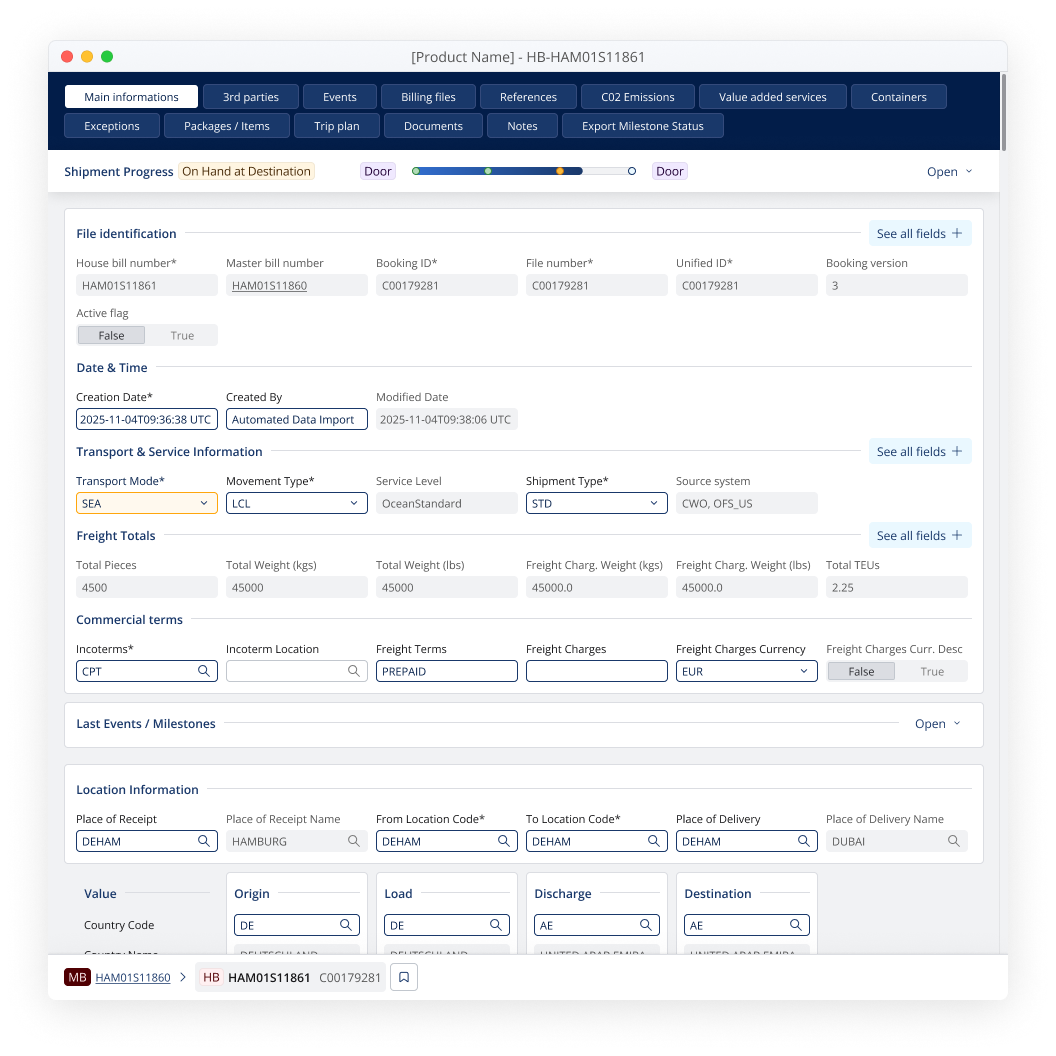
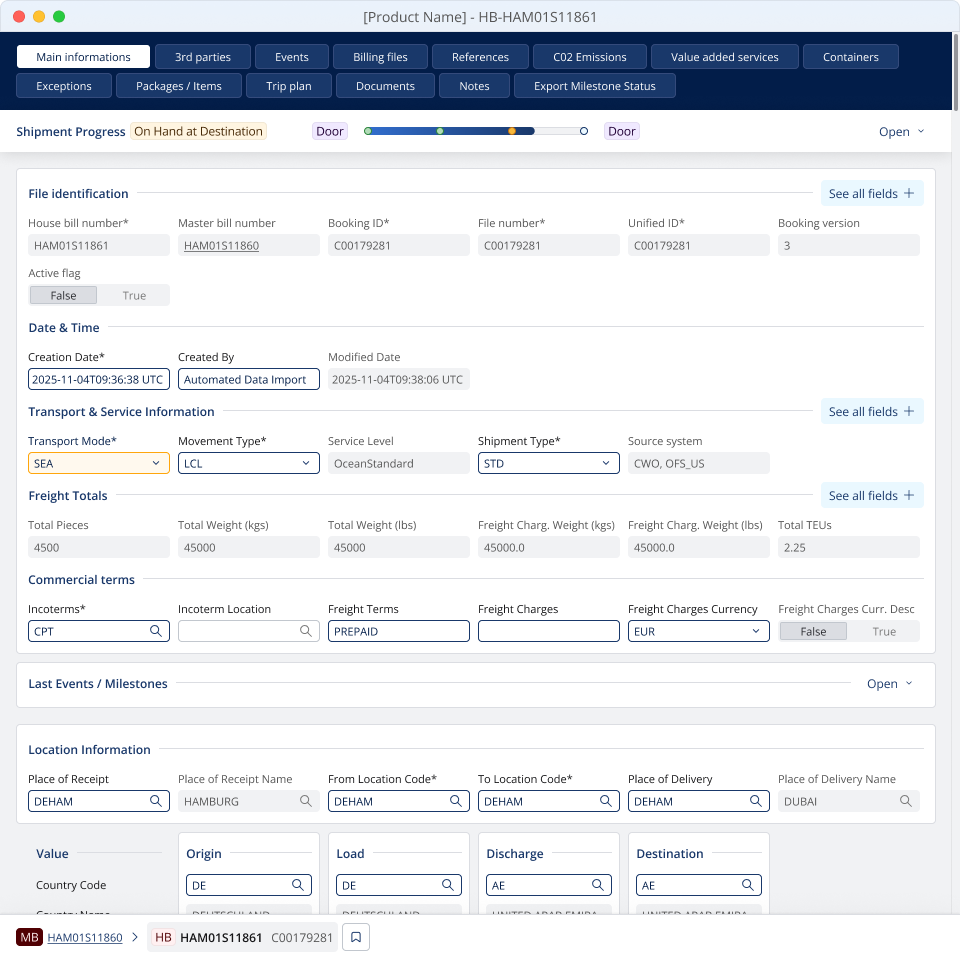
Give CEVA its cover and open a study on the two new projects
The blue project takes /covers/ceva.png and both new cards now open a study,
like the pink one. Nothing else was needed for that: the presence of `study`
is what makes a card clickable and what switches its cursor from hover to
link, so the fourth project stays inert on purpose, having neither a cover nor
a subject yet.

The placeholder study is one shared function rather than two copies of the
same prose. Two identical placeholders read as provisional; two different ones
read as copy. Its sections say what belongs in them instead of filling space,
which is something to write against, and the call is what gets deleted when the
real writing lands.

Checked at 1440px: three cards carry data-cursor="link" and the fourth carries
hover, each study opens on its own mat with its own cover, and no cover is
cropped in the panel — emeis at 1.557 against its natural 1.555, ceva square at
1. The clip past the seam stays 168px whatever the image, so it eats 29% of the
square ceva, 32% of the plugin and 45% of the wide emeis.

diff --git a/src/data/projects.js b/src/data/projects.js
@@ -32,8 +32,43 @@
    not run, which is what the slot is for while a screenshot is still coming. */
 const variableGenerator = '/covers/variable-generator.png'
 
-// Second project. Copy still to come, so the card carries a placeholder sentence.
+// Copy still to come for these two, so their cards carry a placeholder sentence.
 const emeis = '/covers/emeis.png'
+const ceva = '/covers/ceva.png'
+
+/* A study that exists so the card opens and the page can be judged before the
+   writing does. Shared on purpose rather than written twice: two identical
+   placeholders read as provisional, two different ones read as copy.
+
+   The sections say what belongs in them instead of filling space, which is
+   something to write against and impossible to mistake for the real thing.
+   Delete the call, not the text, when the copy arrives. */
+function placeholderStudy(cover) {
+  return {
+    cover,
+    sections: [
+      {
+        title: 'Placeholder. What was in the way before anyone opened Figma.',
+        paragraphs: [
+          'Placeholder copy, sitting here so the shape of the page can be judged before the writing exists. Two or three sentences belong here on the problem as it actually turned up, in the words you would use with a colleague rather than with a jury.',
+        ],
+      },
+      {
+        title: 'Placeholder. The decision you would defend.',
+        paragraphs: [
+          'Placeholder copy. One idea rather than a list of screens: the call that changed the outcome, and what it cost to make it.',
+        ],
+        figure: { cover: null, caption: 'Placeholder figure' },
+      },
+      {
+        title: 'Placeholder. What came out of it.',
+        paragraphs: [
+          'Placeholder copy. What moved, with a number if there is one and without one if there is not.',
+        ],
+      },
+    ],
+  }
+}
 
 export const projects = [
   {
@@ -83,6 +118,7 @@ export const projects = [
   },
   {
     id: 'project-02',
+    study: placeholderStudy(emeis),
     title: 'Placeholder copy. The cover is the real one, the sentence is not yet.',
     subtitle: 'Client name',
     cover: emeis,
@@ -96,9 +132,10 @@ export const projects = [
   },
   {
     id: 'project-03',
-    title: 'Placeholder project. Say what was broken before you touched it.',
+    study: placeholderStudy(ceva),
+    title: 'Placeholder copy. The cover is the real one, the sentence is not yet.',
     subtitle: 'Client name',
-    cover: '',
+    cover: ceva,
     link: null,
     mat: 'blue',
     x: 27,

diff --git a/CLAUDE.md b/CLAUDE.md
@@ -95,9 +95,9 @@ Conventions : composants en PascalCase avec export default, extension `.jsx`, im
 
 ## À faire (état au 30/07/2026)
 
-- Remplacer les 3 projets placeholder dans `src/data/projects.js` et fournir les couvertures (le vrai projet Figma Plugin n'a pas encore de visuel). Sans `cover`, les cartes affichent la tuile grise de `Placeholder.jsx`.
+- `src/data/projects.js` : les trois premiers projets ont leur couverture, le quatrième n'a rien et affiche donc la tuile grise de `Placeholder.jsx`. Les copies des projets 2 et 3 sont des placeholders assumés, titre et sous-titre compris, et leurs études passent par `placeholderStudy()` : supprimer l'appel, pas le texte, quand la vraie copie arrive.
 - Les **4 témoignages** de `src/data/testimonials.js` sont tous à confirmer, y compris les deux entreprises nommées : aucune citation n'est sourcée.
-- Le clic sur une carte projet ne fait rien : les pages de cas d'étude n'existent pas encore.
+- Trois cartes sur quatre ouvrent une étude, le quatrième projet n'en a pas et n'est donc pas cliquable (`data-cursor="hover"` au lieu de `link`). C'est la présence de `study` qui décide des deux, il n'y a rien d'autre à brancher.
 - Remplir « One more thing » ou supprimer la section.
 - Relire `story.paragraphs` dans `content.js` : le texte est repris tel quel de la maquette et contient des coquilles (« in digital world », « I wana »).
 - Faire vérifier les intitulés de poste, périodes et diplômes dans `content.js` (reconstitués, non sourcés).
